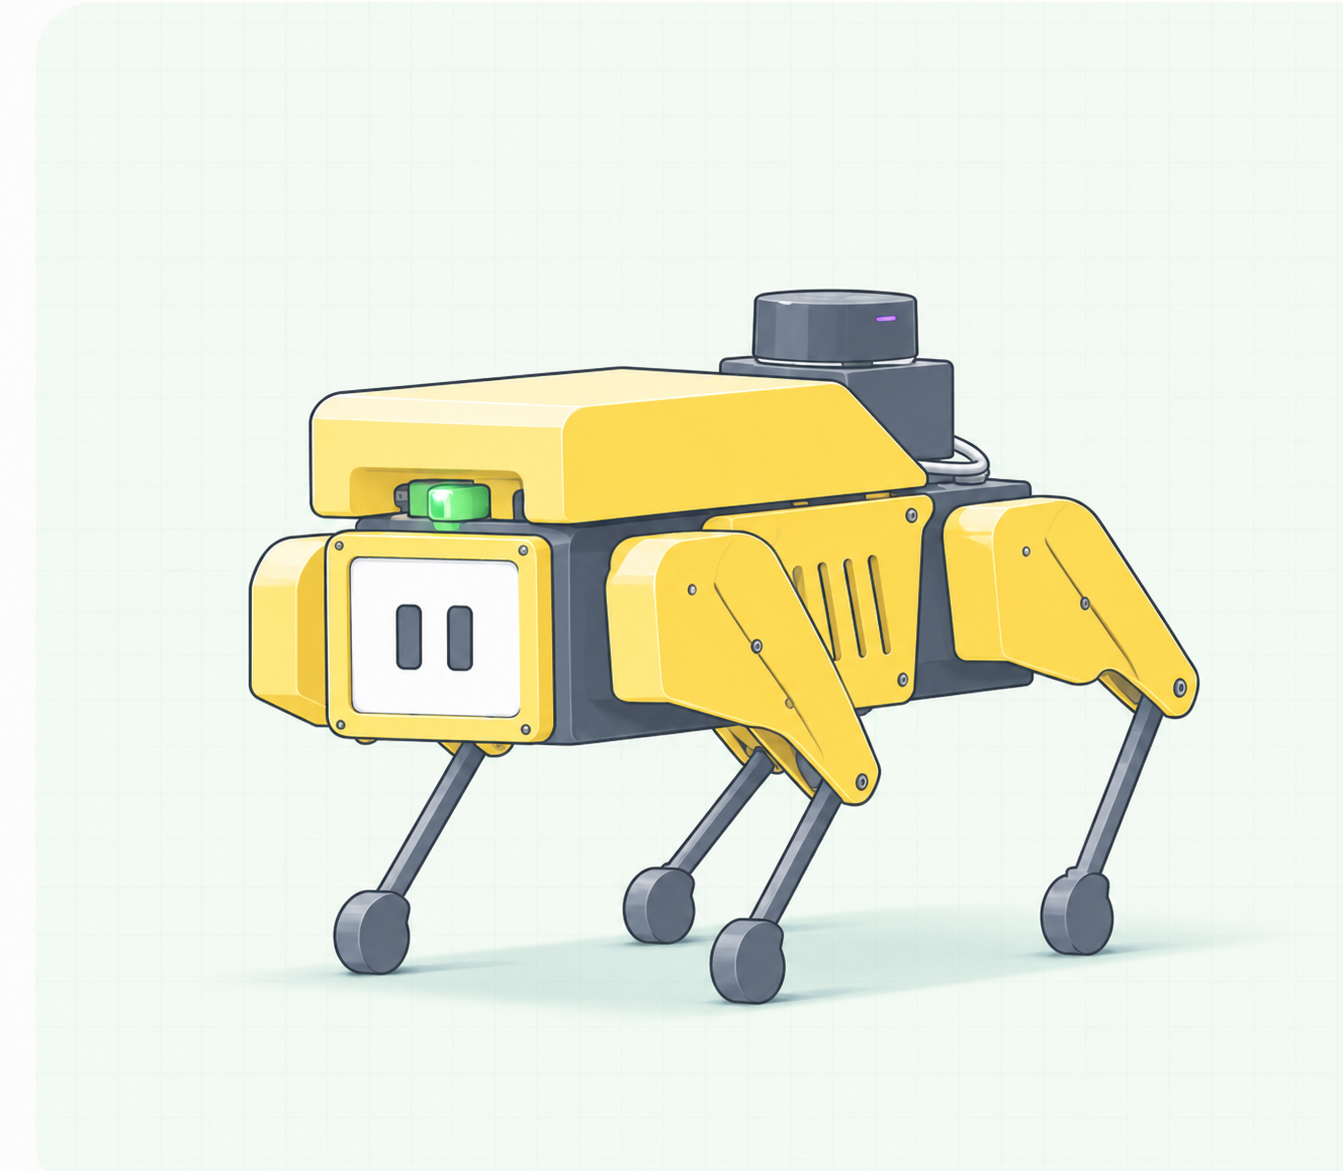
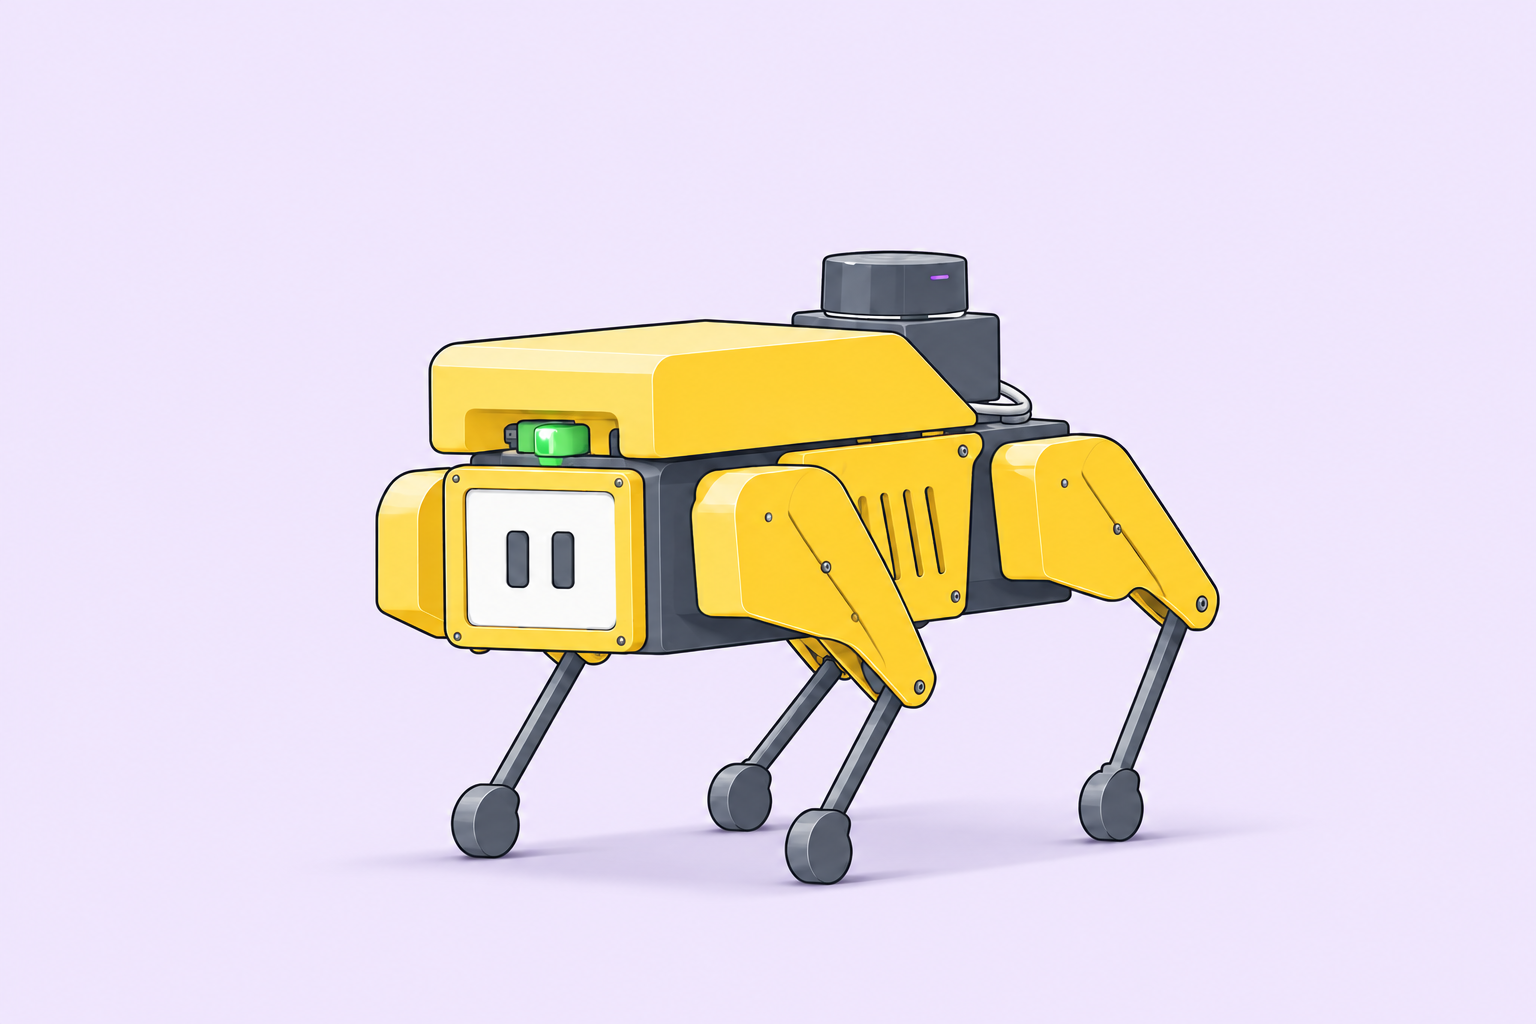
Update wide project card covers

Changed region(s): [[0.1832, 0.2188, 0.9159, 0.875]]

diff --git a/docs/verification.md b/docs/verification.md
@@ -7,6 +7,10 @@
 ## Mini Pupper and gimbal cover cache refresh — 2026-11-11
 
 - Project metadata and listing-cover regression assertions use versioned `*-cover-v2.png` paths to force fresh cover fetches after deployment. `npm run verify` passed with zero Astro diagnostics, 14 generated pages, and 187 checked local asset/navigation links; both paths occur in built Home and Projects card markup.
+
+## Wide Mini Pupper and gimbal covers — 2026-11-11
+
+- The active Mini Pupper and face-tracking gimbal cover assets are the latest owner-supplied 1536 × 1024 PNGs. `npm run verify` passed with zero Astro diagnostics, 14 generated pages, and 187 checked local asset/navigation links.
 - Regression assertions confirm `covers/ecm.webp` is the ECM listing image in both Home and Projects. The built ECM case-study route also references the new WebP.
 - The 1536 × 1024 optimized WebP was visually inspected directly and preserves the supplied concept illustration. A local preview server did not remain available for fresh desktop/390px page screenshots.
 

diff --git a/docs/STATUS.md b/docs/STATUS.md
@@ -90,3 +90,7 @@ Verification: `npm run verify` passed with zero Astro diagnostics, 14 generated 
 ## Mini Pupper and gimbal cover cache refresh — 2026-11-11
 
 Checkpoint: `cd2f889`. Versioned the active Mini Pupper and face-tracking gimbal cover URLs as `*-cover-v2.png` without altering their owner-supplied pixels. Their project metadata and build regression assertions now use the new permanent paths so browsers and GitHub Pages fetch the intended artwork rather than a prior cached response. `npm run verify` passed with zero Astro diagnostics, 14 generated pages, and 187 checked local links; both new paths occur in the built Home and Projects card markup.
+
+## Wide Mini Pupper and gimbal covers — 2026-11-11
+
+Checkpoint: `0a6bfae`. Replaced the pixels at the active `*-cover-v2.png` paths with the latest owner-supplied 1536 × 1024 versions, giving the clickable Projects-card artwork the intended 3:2 framing. `npm run verify` passed with zero Astro diagnostics, 14 generated pages, and 187 checked local links.

diff --git a/docs/CHANGELOG.md b/docs/CHANGELOG.md
@@ -10,6 +10,8 @@ The checkpoint bundle begins on 2026-11-10; no original repository history exist
 
 ## Newly recorded in this handoff
 
+- **2026-11-11 — Wide Mini Pupper and gimbal covers** — Replaced the pixels at the active versioned cover paths with the owner-supplied 1536 × 1024 card artwork and verified the build.
+
 - **2026-11-11 — Mini Pupper and gimbal cover cache refresh** — Versioned their active cover URLs as `*-cover-v2.png` and updated project metadata and listing-cover verification so cached older paths cannot mask the owner-supplied artwork.
 
 - **2026-11-11 — ECM cover refresh** — Updated `covers/ecm.webp` in place with the latest owner-supplied concept illustration; project references remain unchanged.
